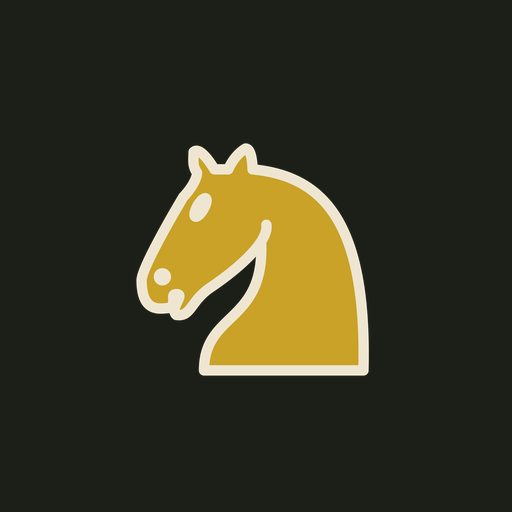
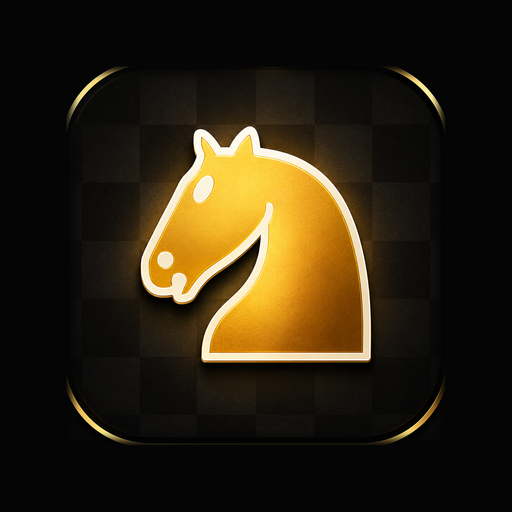
Hero launcher art (owner-supplied glossy knight): bezel-stripped, safe-zone feathered, shipped as adaptive background w/ transparent foreground; legacy + Play-512 rebuilt; monochrome layer kept

diff --git a/AUDIT.md b/AUDIT.md
@@ -670,3 +670,10 @@ Handover note: repository transfer to the emersionplay org severs the
 personal fine-grained PAT by design (resource-owner scoping) — the built-in
 revocation moment. Post-transfer verification is owner-run (Re-run latest
 workflow; expect 'ONLINE DEFAULTS: baked (<project-id>)' and PLAY-SIGNED).
+Launcher art upgraded to owner-supplied glossy hero render (Cburnett-derived
+knight — GPL attribution already covers derivation; owner to confirm generator
+usage rights before Play upload). Baked bezel stripped programmatically
+(launchers/Play apply their own masks); art ships as the adaptive BACKGROUND
+with transparent foreground; feathered margin keeps the knight in the 66dp
+safe zone; monochrome themed-icon layer unchanged; legacy + Play-512 rebuilt.
+Old flat foreground PNGs retained on disk (unreferenced) as fallback.
